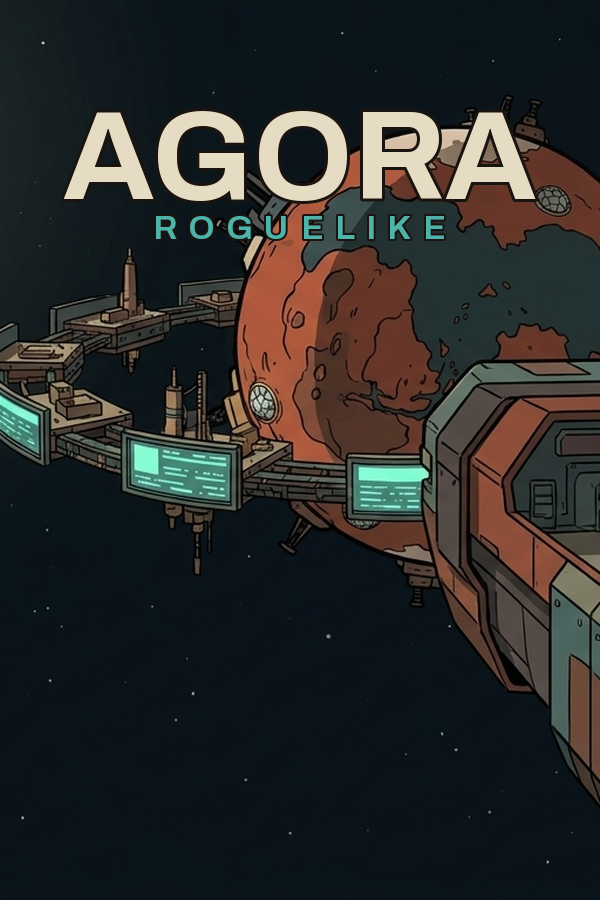
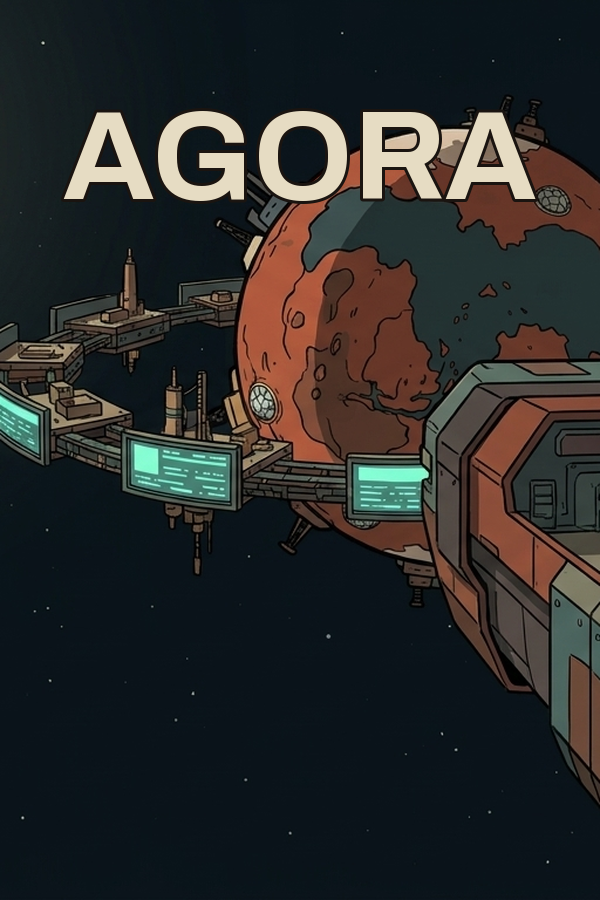
feat(store): v2 key art scenes, drop ROGUELIKE from the name (#29, Steam store assets)
- Three v2 key art takes (cargo, money, candles): Sun in the background
  with the Stabiliser scaffolding, ship in the foreground.
- make_capsules.py: drop the ROGUELIKE tagline; add --out-suffix.
- App name and about text: AGORA, not AGORA Roguelike. Genre word kept.

Changed region(s): [[0.24, 0.2178, 0.75, 0.28]]

diff --git a/tools/art/make_capsules.py b/tools/art/make_capsules.py
@@ -1,12 +1,14 @@
 #!/usr/bin/env python3
 """Build the Steam store capsule SAMPLES from the chosen key art (#29, Steam store assets).
 
-Reads art/store/keyart-raw-1.png (the approved-for-sample take) and the Archivo
-variable font, then writes the capsule PNGs, a copy of the key art at each size,
-and art/store/capsules-sheet.png for review. These are samples pending design
-approval; see docs/art/README.md ("Store capsules").
+Reads art/store/keyart-raw-1.png (the approved-for-sample take, or the --key
+given) and the Archivo variable font, then writes the capsule PNGs, a copy of
+the key art at each size, and art/store/capsules-sheet.png for review. These
+are samples pending design approval; see docs/art/README.md ("Store capsules").
 
-Usage: python3 tools/art/make_capsules.py [--key PATH]
+Usage: python3 tools/art/make_capsules.py [--key PATH] [--out-suffix SUFFIX]
+  --out-suffix SUFFIX  write <name><SUFFIX>.png and capsules-sheet<SUFFIX>.png
+                       (e.g. -cargo), so variants do not overwrite each other.
 """
 
 import argparse
@@ -21,23 +23,21 @@ DEFAULT_KEY = STORE / "keyart-raw-1.png"
 
 BONE = (0xE6, 0xDC, 0xC3)
 INK = (0x1A, 0x14, 0x10)
-TEAL = (0x4F, 0xB3, 0xA9)
 SHEET_BG = (0x0F, 0x0D, 0x0B)
 WEIGHT = 700
 WORD = "AGORA"
-TAGLINE = "ROGUELIKE"
 
-# name -> (width, height, layout, wordmark height fraction, tagline?)
+# name -> (width, height, layout, wordmark height fraction)
 # layout: "left" (left third, vertically centered) | "top" (centered, top third)
 #         "bg" (no text) | "hero" (no text)
 SPECS = [
-    ("header_capsule", 920, 430, "left", 0.22, True),
-    ("small_capsule", 462, 174, "left", 0.45, False),
-    ("main_capsule", 1232, 706, "left", 0.22, True),
-    ("vertical_capsule", 748, 896, "top", 0.22, True),
-    ("page_background", 1438, 810, "bg", 0, False),
-    ("library_capsule", 600, 900, "top", 0.22, True),
-    ("library_hero", 3840, 1240, "hero", 0, False),
+    ("header_capsule", 920, 430, "left", 0.22),
+    ("small_capsule", 462, 174, "left", 0.45),
+    ("main_capsule", 1232, 706, "left", 0.22),
+    ("vertical_capsule", 748, 896, "top", 0.22),
+    ("page_background", 1438, 810, "bg", 0),
+    ("library_capsule", 600, 900, "top", 0.22),
+    ("library_hero", 3840, 1240, "hero", 0),
 ]
 
 
@@ -119,7 +119,6 @@ def compose(key, name, w, h, layout, wm_frac):
 
     scale = h / 706  # stroke is 2-3 px at the main capsule height, scaled up or down
     stroke_w = max(2, round(2.5 * scale))
-    tag_stroke = max(1, round(stroke_w * 0.6))
     wm_target = round(h * wm_frac)
     if layout == "left":
         max_w = round(w * 0.34)
@@ -127,11 +126,7 @@ def compose(key, name, w, h, layout, wm_frac):
     else:
         max_w = round(w * 0.80)
     wordmark = fit_text(WORD, wm_target, max_w, stroke_w, BONE, INK)
-    tagline = None
-    if name_has_tagline(name):
-        tag_target = max(6, round(wordmark.height * 0.28))
-        tagline = fit_text(TAGLINE, tag_target, max_w, tag_stroke, TEAL, INK, tracking=0.35)
-    block_h = wordmark.height + (round(wordmark.height * 0.10) + tagline.height if tagline else 0)
+    block_h = wordmark.height
     if layout == "left":
         top = (h - block_h) // 2
         wm_x = x0
@@ -139,15 +134,7 @@ def compose(key, name, w, h, layout, wm_frac):
         top = round(h * 0.12)
         wm_x = (w - wordmark.width) // 2
     base.alpha_composite(wordmark, (wm_x, top))
-    if tagline:
-        tag_y = top + wordmark.height + round(wordmark.height * 0.10)
-        tag_x = wm_x if layout == "left" else (w - tagline.width) // 2
-        base.alpha_composite(tagline, (tag_x, tag_y))
     return base
-
-
-def name_has_tagline(name):
-    return dict((s[0], s[5]) for s in SPECS)[name]
 
 
 def build_sheet(items, out_path):
@@ -175,19 +162,22 @@ def build_sheet(items, out_path):
 def main():
     parser = argparse.ArgumentParser(description=__doc__.split("\n")[0])
     parser.add_argument("--key", default=str(DEFAULT_KEY), help="key art PNG (16:9)")
+    parser.add_argument("--out-suffix", default="",
+                        help="suffix for output names: <name><suffix>.png, capsules-sheet<suffix>.png")
     args = parser.parse_args()
 
     STORE.mkdir(parents=True, exist_ok=True)
     key = Image.open(args.key).convert("RGB")
     items = []
-    for name, w, h, layout, wm_frac, _ in SPECS:
+    for name, w, h, layout, wm_frac in SPECS:
         img = compose(key, name, w, h, layout, wm_frac)
-        out = STORE / f"{name}.png"
+        out = STORE / f"{name}{args.out_suffix}.png"
         img.save(out)
         items.append((name, img))
         print(f"wrote {out.relative_to(ROOT)} {img.width}x{img.height}")
-    build_sheet(items, STORE / "capsules-sheet.png")
-    print(f"wrote {(STORE / 'capsules-sheet.png').relative_to(ROOT)}")
+    sheet = STORE / f"capsules-sheet{args.out_suffix}.png"
+    build_sheet(items, sheet)
+    print(f"wrote {sheet.relative_to(ROOT)}")
 
 
 if __name__ == "__main__":

diff --git a/tests/test_steam_store_assets.py b/tests/test_steam_store_assets.py
@@ -18,7 +18,7 @@ class TestSteamStoreAssets(unittest.TestCase):
         self.steam_cfg = json.loads(STEAM_CONFIG_PATH.read_text(encoding="utf-8"))
 
     def test_basic_metadata_and_partner_alignment(self):
-        self.assertEqual(self.data["app_name"], "AGORA Roguelike")
+        self.assertEqual(self.data["app_name"], "AGORA")
         self.assertEqual(self.data["app_id_target"], 3064620)
         self.assertEqual(self.data["publisher"], "Placeholder Studios")
         self.assertEqual(self.steam_cfg.get("target_app_id"), 3064620)

diff --git a/docs/art/README.md b/docs/art/README.md
@@ -48,7 +48,21 @@ Steam store capsules for #29 (Steam store assets) are built from one Gemini key-
 python3 tools/art/make_capsules.py
 ```
 
-The script reads `art/store/keyart-raw-1.png`, crops and resizes it to each size in `game/data/store_assets.json`, overlays the "AGORA" wordmark and "ROGUELIKE" tagline (Archivo, bone cream and teal), and writes `art/store/capsules-sheet.png` for review. The page background and library hero carry no text.
+v2 key art (Ryan's feedback, #29): the Sun is larger in the background with the Stabiliser scaffolding built around it, and the focal point is a ship in the foreground. Three scene prompts share the style text below. Regenerate the raw takes with `python3 skills/image-gen/scripts/gen-image.py --manifest <manifest> <outdir>` (Gemini backend, 16:9, takes 2), then build each capsule set with:
+
+```
+python3 tools/art/make_capsules.py --key art/store/keyart-v2-cargo.png --out-suffix=-cargo
+python3 tools/art/make_capsules.py --key art/store/keyart-v2-money.png --out-suffix=-money
+python3 tools/art/make_capsules.py --key art/store/keyart-v2-candles.png --out-suffix=-candles
+```
+
+Style (all three): flat cel-shaded illustration, uniform ink contours, flat graphic shadow cuts, ochre (#c99a2e), bone (#e6dcc3), ink black (#1c1a17), slate (#2c353b) and teal (#4fb3a9) accents; a huge unstable flaring amber Sun in the upper right with a massive curved scaffolding arc (the Stabiliser) around about a third of its limb; the left third calm and dark for a title; no text, letters, numbers, logos or UI.
+
+- cargo: a battered corporate cargo freighter in the foreground, three-quarter view, visibly crammed with trade goods (stacked containers, ore sacks, fuel drums and crates lashed to the hull).
+- money: a sleek corporate trading ship in the foreground, three-quarter view, with a glittering stream of gold credit chips and coins pouring out of its engine exhaust.
+- candles: a corporate trading ship in the foreground, three-quarter view, its engine trail stylized as a rising green and red candlestick chart.
+
+The script reads `art/store/keyart-raw-1.png`, crops and resizes it to each size in `game/data/store_assets.json`, overlays the "AGORA" wordmark (Archivo, bone cream), and writes `art/store/capsules-sheet.png` for review. The page background and library hero carry no text.
 
 Key art prompt (Gemini, 16:9, with `card_art/antitrust_audit.png` and `card_art/card_mars.png` as style references):
 

diff --git a/docs/design/epic5-steamworks.md b/docs/design/epic5-steamworks.md
@@ -10,7 +10,7 @@
 
 ## 1. Executive Summary & Deliverables Matrix
 
-Epic 5 establishes the commercial Steamworks infrastructure, automated multi-platform release engineering, Steam Deck Verified targeting, and store presence for *AGORA Roguelike*:
+Epic 5 establishes the commercial Steamworks infrastructure, automated multi-platform release engineering, Steam Deck Verified targeting, and store presence for *AGORA*:
 
 | Deliverable Area | Target Specification | Shipped Implementation | Status |
 |---|---|---|---|
@@ -56,7 +56,7 @@ All store metadata conforms strictly to Valve's onboarding requirements:
 
 ### Copywriting & Positioning
 
-- **Game Title:** AGORA Roguelike
+- **Game Title:** AGORA
 - **Tagline (Short Description, <= 300 chars):**  
   *An orbital Bloomberg terminal roguelike. Build trade cartels across Sol, execute hostile takeovers of rival barons, and light the planetary Stabilisers before the Doomsday Clock strikes zero.*
 - **Key Features:**
@@ -89,7 +89,7 @@ All store metadata conforms strictly to Valve's onboarding requirements:
 To complete Steam Direct onboarding under Placeholder Studios (App 3064620):
 
 1. **Steamworks Partner Portal Setup:**
-   - Log in to partner portal and navigate to **App 3064620 (AGORA Roguelike)**.
+   - Log in to partner portal and navigate to **App 3064620 (AGORA)**.
    - Enter store metadata and copy from `game/data/store_assets.json`.
    - Upload graphic capsules matching the exact resolutions in `store_assets.json`.
 2. **Achievements & Stats Staging:**
